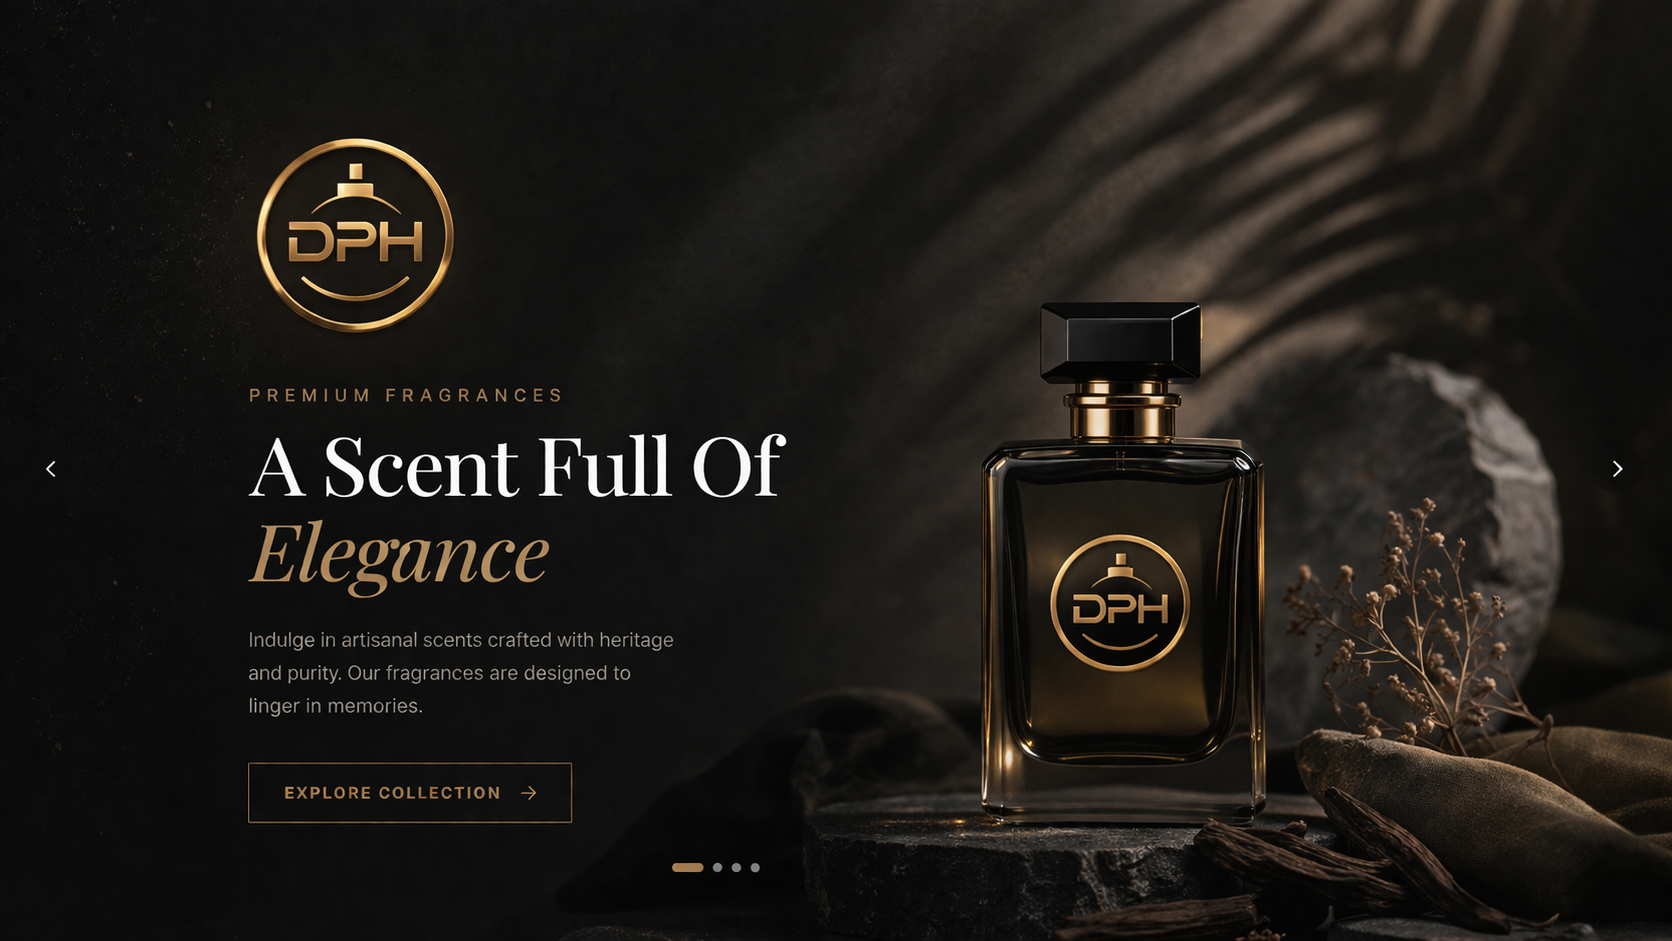
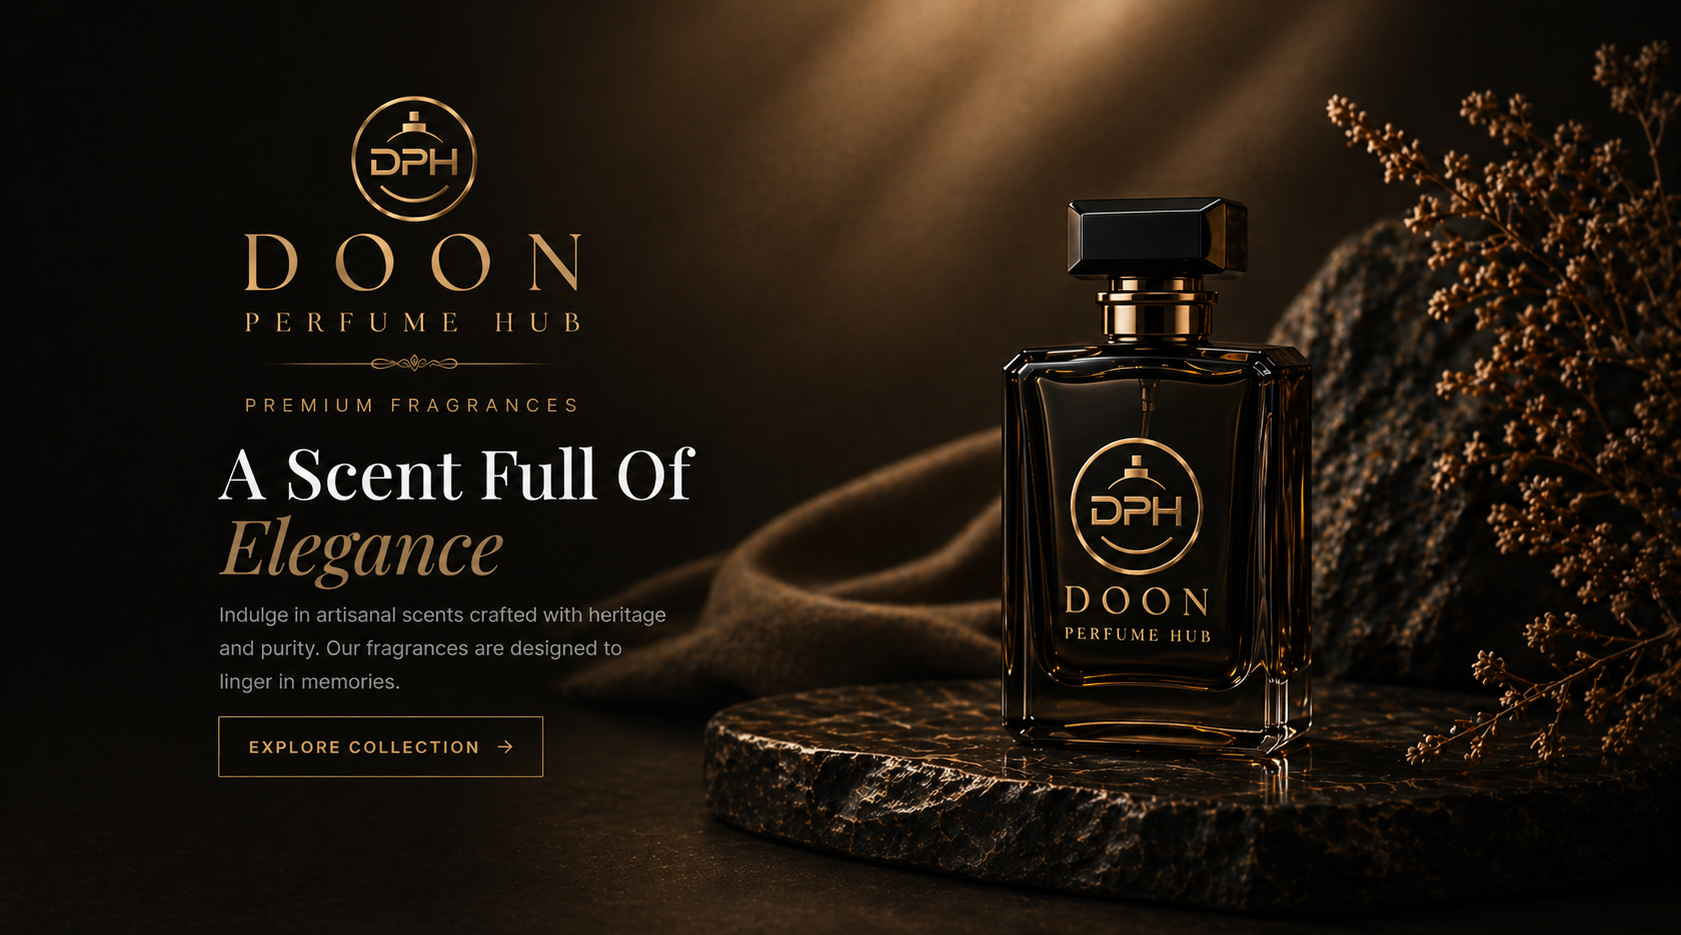
Set new welcome hero image and position Explore Now like design

diff --git a/frontend/src/app/page.tsx b/frontend/src/app/page.tsx
@@ -384,11 +384,17 @@ export default function Home() {
                 unoptimized
               />
               {idx === 0 ? (
-                <Link
-                  href={slide.href}
-                  aria-label="Explore collection"
-                  className="absolute inset-0 z-10"
-                />
+                <div className="absolute inset-0 z-10 pointer-events-none">
+                  <Link
+                    href={slide.href}
+                    aria-label="Explore now"
+                    className="pointer-events-auto absolute left-4 bottom-4 md:left-[14.5%] md:bottom-[14%]"
+                  >
+                    <button className="group flex items-center gap-3 border border-[#a97a3d] text-[#d2a767] bg-black/25 backdrop-blur-sm px-4 md:px-8 py-2 md:py-3 text-[10px] md:text-sm tracking-[0.16em] font-bold hover:bg-black/45 transition-all duration-300 shadow-xl">
+                      EXPLORE NOW <ArrowRight size={18} className="group-hover:translate-x-2 transition-transform" />
+                    </button>
+                  </Link>
+                </div>
               ) : (
                 <>
                   <div className="absolute inset-0 bg-gradient-to-l from-black/60 to-transparent" />